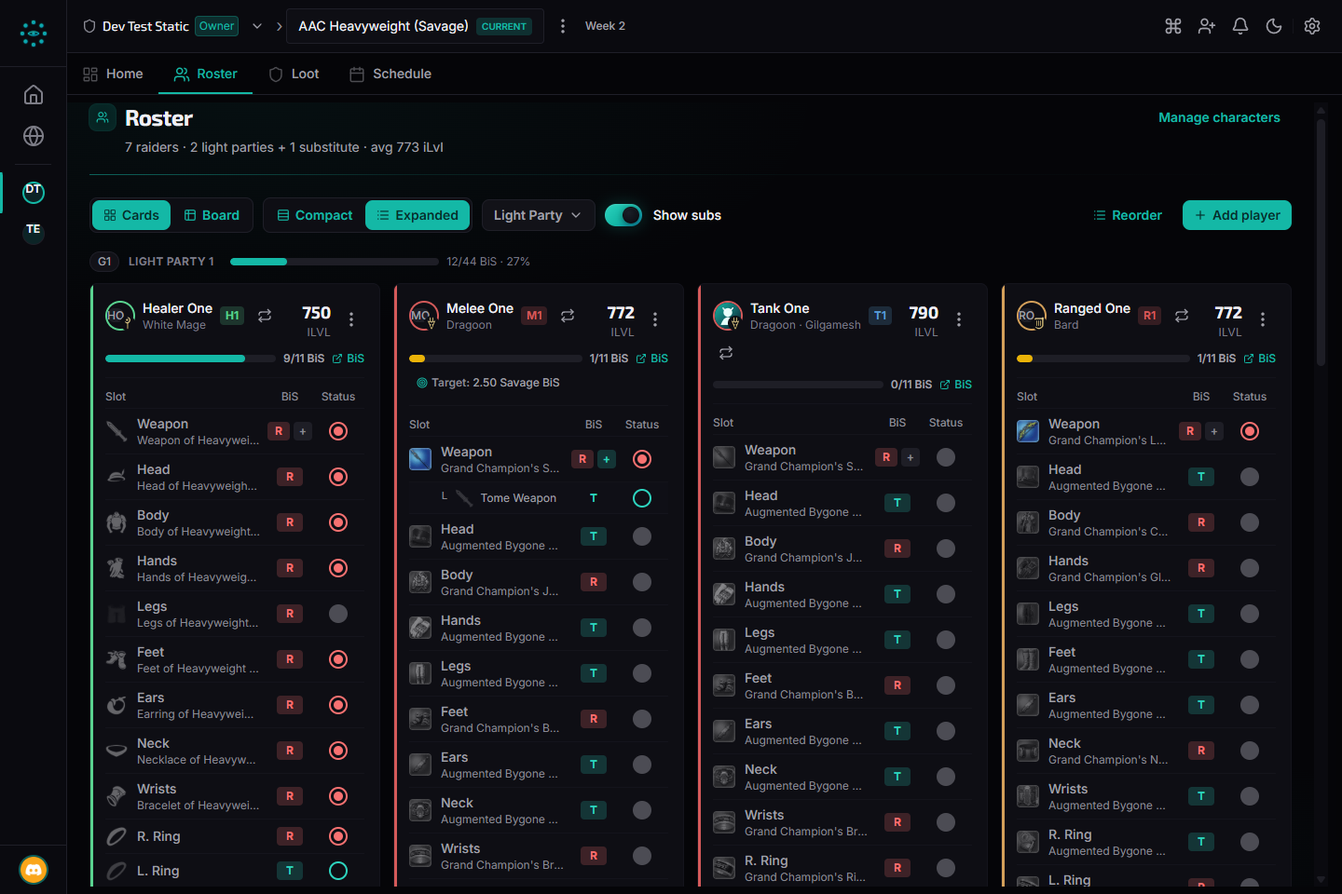
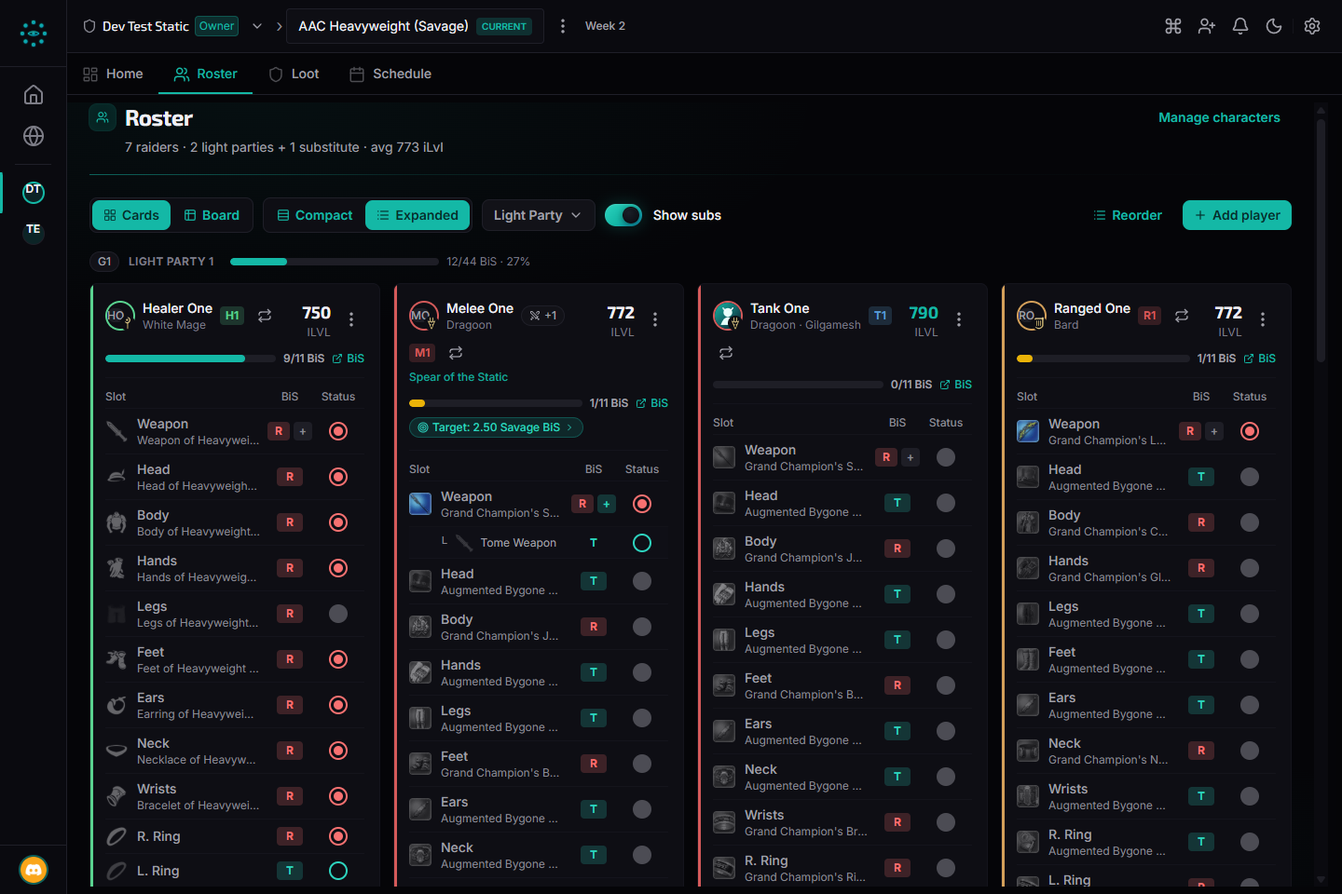
fix(redesign): C5 director fold — all 10 findings (F1-F10) addressed
RECORD CORRECTION (F1): the matrix's 'evidenced by the C5 PR screenshots'
claim for D-11's roster title, D-09's '+N' tag and the D-12 mismatch glyph
was written BEFORE that evidence existed — no dev player exercised those
paths. Now demoed live and captured (title + '+N' + chip in
c5-bis-target-chip-dark.png and c5-expanded-owner-light.png; mismatch glyph
+ warning dot in the new c5-sync-mismatch-dark.png via a temporary
WAR-job change), all demo data reverted after the shots.

F2: the 'You' tooltip now names the viewer's membership role — the D-09
delta ('role named in the tooltip') is true for both claim badges.
F3: the equipped-first readout regains legacy's color discriminator
(accent = equipped average) and the GearBoard subtitle goes equipped-first
through the new shared rosterIlv helper — the two v2 roster views can no
longer print different numbers for the same player. Red-first tests pin
both (RosterCard discriminator + GearBoard subtitle).
F4: the redundant native title on the readout dropped.
F5: the sync line renders as two segments — the name truncates, the age
never does (tests updated to the two-segment contract).
F6: the sync detail hover is a LongPressTooltip (touch path, symmetric
with the iLvl panel); keyboard/AT reachability recorded for the end-phase
mobile/a11y pass.
F7: the active-BiS chip is a Tag variant=nav with the chevron — a pill
that navigates must look like it (delta recorded on D-01).
[…]

diff --git a/frontend/src/components/roster/RosterCard.tsx b/frontend/src/components/roster/RosterCard.tsx
@@ -44,6 +44,7 @@ import { RosterGearTable } from './RosterGearTable';
 import { hasHoverData } from './gearHoverData';
 import { NowVsBisPanel } from './NowVsBisPanel';
 import { bisLinkTooltip, buildBisUrl } from './bisLinkMeta';
+import { equippedAverageIlv } from './rosterIlv';
 import { Button, IconButton, LongPressTooltip, Tooltip } from '../primitives';
 import { JobPicker } from '../player/JobPicker';
 import { PositionSelector } from '../player/PositionSelector';
@@ -402,16 +403,10 @@ export function RosterCard({
 
   // C5 (D-10): the readout prefers the equipped average from sync data when it
   // covers at least half the slots (legacy PlayerCardHeader parity); the
-  // NowVsBisPanel hover explains the number either way.
+  // NowVsBisPanel hover explains the number either way. The shared helper
+  // keeps this expression identical to the GearBoard subtitle (director F3).
   const bisAvgIlv = calculateAverageItemLevel(player.gear, tierId);
-  const equippedSlots = player.gear.filter((g) => (g.equippedItemLevel ?? 0) > 0);
-  const equippedAvgIlv =
-    equippedSlots.length >= Math.ceil(player.gear.length / 2)
-      ? Math.round(
-          equippedSlots.reduce((sum, g) => sum + (g.equippedItemLevel ?? 0), 0) /
-            equippedSlots.length
-        )
-      : 0;
+  const equippedAvgIlv = equippedAverageIlv(player.gear);
   const displayILv = equippedAvgIlv > 0 ? equippedAvgIlv : bisAvgIlv;
 
   // C5 (D-09): badge facts. The "+N" count excludes the main job (legacy
@@ -425,9 +420,9 @@ export function RosterCard({
   const syncAge = formatSyncAge(player.lastSync);
   // C5 (D-12 rider): the sync line carries the character's name; server and
   // sync provenance live in the hover detail (leaner than v1's sync block).
-  const syncLabel = hasLodestoneIdentity
-    ? `${player.lodestoneName ?? 'Linked'}${syncAge ? ` · synced ${syncAge}` : ''}`
-    : 'Not synced';
+  // Rendered as two segments so the NAME truncates and the age never does
+  // (director F5).
+  const syncName = player.lodestoneName ?? 'Linked';
   const syncJobMismatch = Boolean(
     hasLodestoneIdentity &&
       player.lastSyncedJob &&
@@ -493,8 +488,10 @@ export function RosterCard({
       );
     }
     if (player.userId === currentUserId) {
+      // The membership role rides the tooltip (director F2) — legacy conveyed
+      // it by badge color; the D-09 delta names the tooltip as its new home.
       return (
-        <Tooltip content="This card is claimed by you">
+        <Tooltip content={`This card is claimed by you${userRole ? ` (${userRole})` : ''}`}>
           <span className="inline-flex">
             <Tag variant="label" tone="accent">
               You
@@ -657,7 +654,10 @@ export function RosterCard({
 
           <div className="flex shrink-0 items-center gap-2">
             {/* C5 (D-10): the Now-vs-BiS breakdown panel explains the readout;
-                the placeholder "—" has nothing to explain and stays un-wired. */}
+                the placeholder "—" has nothing to explain and stays un-wired.
+                The accent color IS the discriminator (legacy parity, director
+                F3): accent = equipped average, default = BiS-target average.
+                No native title — the panel already says both (director F4). */}
             {displayILv > 0 ? (
               <LongPressTooltip
                 delayDuration={200}
@@ -670,15 +670,12 @@ export function RosterCard({
                   />
                 }
               >
-                <div
-                  className="cursor-help text-right leading-none"
-                  title={
-                    equippedAvgIlv > 0
-                      ? 'Current equipped avg iLv (hover for the BiS target)'
-                      : undefined
-                  }
-                >
-                  <div className="font-display text-lg font-bold text-text-primary">
+                <div className="cursor-help text-right leading-none">
+                  <div
+                    className={`font-display text-lg font-bold ${
+                      equippedAvgIlv > 0 ? 'text-accent' : 'text-text-primary'
+                    }`}
+                  >
                     {displayILv}
                   </div>
                   <div className="text-xs uppercase tracking-wide text-text-tertiary">iLvl</div>
@@ -751,24 +748,25 @@ export function RosterCard({
         </div>
 
         {/* C5 (D-01 remainder): expanded-only active BiS target, riding the
-            BiS block. Opens the same manager as the kebab's "BiS Targets". */}
+            BiS block. Opens the same manager as the kebab's "BiS Targets".
+            A nav Tag, not legacy's ghost button — the pill goes somewhere, so
+            it carries the chevron (director F7: a clickable thing must LOOK
+            clickable). */}
         {isExpanded && activeBisTarget && bisTargetsAction && (
           <div className="mt-1.5">
-            <Button
-              variant="ghost"
-              size="xs"
-              onClick={bisTargetsAction}
-              title="Open BiS Targets"
-              leftIcon={<Target className="h-3 w-3 text-accent" aria-hidden="true" />}
-              className="h-auto max-w-full justify-start py-0.5 text-left"
+            <Tag
+              variant="nav"
+              tone="accent"
+              onNavigate={bisTargetsAction}
+              icon={<Target className="h-3 w-3" aria-hidden="true" />}
+              className="max-w-full"
             >
-              <span className="truncate text-xs text-text-muted">
-                Target:{' '}
-                <span className="font-medium text-text-secondary">{activeBisTarget.name}</span>
+              <span className="truncate">
+                Target: <span className="font-medium">{activeBisTarget.name}</span>
                 {activeBisTarget.itemLevel ? ` · iLv ${activeBisTarget.itemLevel}` : ''}
                 {bisTargetCount > 1 ? ` (+${bisTargetCount - 1})` : ''}
               </span>
-            </Button>
+            </Tag>
           </div>
         )}
 
@@ -878,7 +876,11 @@ export function RosterCard({
               }`}
             />
             {hasLodestoneIdentity ? (
-              <Tooltip
+              /* LongPressTooltip, matching the iLvl panel twelve lines up —
+                 same slice, same detail-hover pattern, and it keeps a touch
+                 path (director F6). */
+              <LongPressTooltip
+                delayDuration={200}
                 content={
                   <div className="max-w-60 space-y-1">
                     <div className="font-medium">
@@ -895,7 +897,8 @@ export function RosterCard({
                 }
               >
                 <span className="flex min-w-0 cursor-help items-center gap-1">
-                  <span className="truncate">{syncLabel}</span>
+                  <span className="truncate">{syncName}</span>
+                  {syncAge && <span className="shrink-0">· synced {syncAge}</span>}
                   {syncJobMismatch && (
                     <AlertTriangle
                       data-testid="roster-sync-mismatch"
@@ -904,9 +907,9 @@ export function RosterCard({
                     />
                   )}
                 </span>
-              </Tooltip>
+              </LongPressTooltip>
             ) : (
-              <span className="truncate">{syncLabel}</span>
+              <span className="truncate">Not synced</span>
             )}
           </span>
           <span className="flex-1" />

diff --git a/frontend/src/components/roster/RosterCard.test.tsx b/frontend/src/components/roster/RosterCard.test.tsx
@@ -820,6 +820,44 @@ describe('RosterCard — C5 metrics · badges · identity', () => {
       expect(screen.getByText('730').closest('[data-state]')).not.toBeNull();
     });
 
+    it('marks an equipped-derived readout with the accent discriminator (director F3)', () => {
+      // Legacy PlayerCardHeader colored the number to say WHICH metric it is
+      // (accent = what the player has equipped). The hover alone is not a
+      // visible discriminator.
+      renderCard(
+        makePlayer({
+          gear: Array.from({ length: 11 }, (_, i) => ({
+            slot: `s${i}`,
+            bisSource: 'raid',
+            hasItem: i < 6,
+            isAugmented: false,
+            equippedItemLevel: i < 6 ? 730 : undefined,
+          })) as unknown as SnapshotPlayer['gear'],
+        })
+      );
+      expect(screen.getByText('730')).toHaveClass('text-accent');
+    });
+
+    it('falls back to the BiS-target metric below the sync-coverage threshold (director F10)', () => {
+      // 5 of 11 synced slots is under ceil(11/2): the equipped average must
+      // NOT win. (With the test tier the BiS-target average is 0 -> "—",
+      // styled as the non-equipped readout.)
+      renderCard(
+        makePlayer({
+          gear: Array.from({ length: 11 }, (_, i) => ({
+            slot: `s${i}`,
+            bisSource: 'raid',
+            hasItem: i < 6,
+            isAugmented: false,
+            equippedItemLevel: i < 5 ? 730 : undefined,
+          })) as unknown as SnapshotPlayer['gear'],
+        })
+      );
+      expect(screen.queryByText('730')).not.toBeInTheDocument();
+      const placeholder = screen.getByText('—');
+      expect(placeholder).not.toHaveClass('text-accent');
+    });
+
     it('leaves the placeholder readout un-wired when there is no iLv to explain', () => {
       renderCard(makePlayer());
       expect(screen.getByText('—').closest('[data-state]')).toBeNull();
@@ -861,7 +899,9 @@ describe('RosterCard — C5 metrics · badges · identity', () => {
   describe('sync line (D-12 rider, leaner R-072)', () => {
     const twoHoursAgo = () => new Date(Date.now() - 2 * 3600_000).toISOString();
 
-    it('names the character on the footer sync line', () => {
+    it('names the character on the footer sync line, with the age as its own segment', () => {
+      // Two segments (director F5): the NAME truncates at narrow widths, the
+      // age never does — both facts survive a crowded footer.
       renderCard(
         makePlayer({
           lodestoneId: '123',
@@ -870,7 +910,8 @@ describe('RosterCard — C5 metrics · badges · identity', () => {
           lastSync: twoHoursAgo(),
         })
       );
-      expect(screen.getByText('Krile Baldesion · synced 2h ago')).toBeInTheDocument();
+      expect(screen.getByText('Krile Baldesion')).toBeInTheDocument();
+      expect(screen.getByText(/synced 2h ago/)).toBeInTheDocument();
     });
 
     it('wires the sync detail tooltip behind the linked line, not the unlinked one', () => {
@@ -883,7 +924,7 @@ describe('RosterCard — C5 metrics · badges · identity', () => {
         })
       );
       expect(
-        screen.getByText('Krile Baldesion · synced 2h ago').closest('[data-state]')
+        screen.getByText('Krile Baldesion').closest('[data-state]')
       ).not.toBeNull();
       unmount();
 

diff --git a/frontend/src/components/roster/GearBoard.tsx b/frontend/src/components/roster/GearBoard.tsx
@@ -23,6 +23,7 @@
 import { Fragment } from 'react';
 import { PlayerIdentity } from '../ui/PlayerIdentity';
 import { GearBoardCell } from './GearBoardCell';
+import { equippedAverageIlv } from './rosterIlv';
 import {
   groupPlayersByLightParty,
   calculateAverageItemLevel,
@@ -148,7 +149,11 @@ export function GearBoard({ players, tierId, userRole, currentUserId, isAdminAcc
                 // canEditGear pattern, adapted to one-row-per-player).
                 const editable = canEditGear(userRole, player, currentUserId ?? undefined, isAdminAccess).allowed;
                 const { obtained, total } = playerBis(player);
-                const iLvl = calculateAverageItemLevel(player.gear, tierId ?? '');
+                // Equipped-first, same expression as the RosterCard headline
+                // (C5, director F3) — the two v2 roster views must print the
+                // same number for the same player.
+                const equippedIlv = equippedAverageIlv(player.gear);
+                const iLvl = equippedIlv > 0 ? equippedIlv : calculateAverageItemLevel(player.gear, tierId ?? '');
                 const subtitle = `${player.position ?? player.tankRole ?? role} · ${iLvl > 0 ? iLvl : '—'}`;
                 return (
                   <tr key={player.id} className="hover:bg-accent/5">

diff --git a/frontend/src/components/roster/GearBoard.test.tsx b/frontend/src/components/roster/GearBoard.test.tsx
@@ -36,6 +36,24 @@ describe('GearBoard', () => {
     expect(screen.getByText('7')).toBeInTheDocument();
   });
 
+  it('row subtitle iLvl goes equipped-first when sync data covers half the slots (C5)', () => {
+    // The Board must agree with the card headline: equipped average when
+    // Lodestone/Tomestone data covers >= ceil(11/2) slots, BiS-target avg
+    // otherwise. 6 slots at 730 -> "· 730" in the identity subtitle.
+    const synced = player({
+      id: 'a',
+      gear: SLOTS.map((slot, i) => ({
+        slot,
+        bisSource: 'raid',
+        hasItem: false,
+        isAugmented: false,
+        equippedItemLevel: i < 6 ? 730 : undefined,
+      })) as GearSlotStatus[],
+    });
+    render(<GearBoard players={[synced]} {...OWNER_GATE} actionsForPlayer={noop} />);
+    expect(screen.getByText(/730/)).toBeInTheDocument();
+  });
+
   it('renders the "No BiS imported" row when a player has no BiS-target slots', () => {
     const noBis = player({ id: 'z', name: 'Caster One', gear: SLOTS.map((slot) => ({ slot, bisSource: null, hasItem: false, isAugmented: false })) as GearSlotStatus[] });
     render(<GearBoard players={[noBis]} {...OWNER_GATE} actionsForPlayer={noop} />);

diff --git a/frontend/src/components/roster/rosterIlv.ts b/frontend/src/components/roster/rosterIlv.ts
@@ -1,0 +1,19 @@
+/**
+ * Equipped-average item level for the v2 roster surfaces (C5, D-10).
+ *
+ * One expression, two consumers — the RosterCard headline and the GearBoard
+ * row subtitle — so the two v2 roster views always print the same number
+ * (director F3: they briefly disagreed when only the card went
+ * equipped-first). Mirrors legacy PlayerCardHeader: the equipped average
+ * counts only when Lodestone/Tomestone sync data covers at least half the
+ * player's slots; otherwise callers fall back to the BiS-target average.
+ */
+import type { GearSlotStatus } from '../../types';
+
+export function equippedAverageIlv(gear: GearSlotStatus[]): number {
+  const synced = gear.filter((g) => (g.equippedItemLevel ?? 0) > 0);
+  if (synced.length < Math.ceil(gear.length / 2)) return 0;
+  return Math.round(
+    synced.reduce((sum, g) => sum + (g.equippedItemLevel ?? 0), 0) / synced.length
+  );
+}

diff --git a/design/redesign/specs/v1-v2-parity-matrix.md b/design/redesign/specs/v1-v2-parity-matrix.md
@@ -141,7 +141,7 @@ D-72 · D-66 → D-66 + D-70 · D-67 → D-67 + D-71. IDs are never re-used or r
 
 | D-ID | What | Class | Legacy rows | V2 today | Usage signal | Ruling |
 |---|---|---|---|---|---|---|
-| **D-01** | The **expanded ⇄ compact card axis** itself: two card densities, a mobile floating density FAB, re-click-to-expand-all, the `V` shortcut, and the expanded-only "active BiS target" chip. | LOST | R-014, R-015, R-023, R-065, R-066, R-087, R-165 | absent — v2 has one card density (V2R-10…V2R-17) | **expanded 203/71 vs compact 126/51** — strongest single datapoint in the matrix ⚠ *Counting note (C1, 2026-07-26): the v2 restore emits `view_mode_change` with a `shell:'v2'` field and does NOT re-emit on a re-click of the active Expanded control (legacy re-emitted on every click; v2 routes re-clicks to expand/collapse-all). v2 series will run strictly lower for identical behavior — never compare raw counts across shells.* | **RESTORE** *(restyled — Phase C centerpiece; ruled 2026-07-26)* ⚠ *C1-checkpoint amendments (2026-07-26): per-card collapse REJECTED (density = global view toggle); re-click-to-expand-all clarified as SECTION-level (expands/folds the light-party groups, cards keep their density) → ships in C6 with D-08's chevrons; the mobile FAB deferred to the consolidated end-phase mobile pass.* ⚠ *C5 (2026-07-26): the expanded-only active-BiS-target chip SHIPPED — it extends the progress line's BiS block (one axis: every BiS concern on that axis) and opens the same manager as the kebab's "BiS Targets"; chip data INHERITS the modal-populated `useSharedBisStore` (no roster prefetch, no backend work — plan vet finding 7).* |
+| **D-01** | The **expanded ⇄ compact card axis** itself: two card densities, a mobile floating density FAB, re-click-to-expand-all, the `V` shortcut, and the expanded-only "active BiS target" chip. | LOST | R-014, R-015, R-023, R-065, R-066, R-087, R-165 | absent — v2 has one card density (V2R-10…V2R-17) | **expanded 203/71 vs compact 126/51** — strongest single datapoint in the matrix ⚠ *Counting note (C1, 2026-07-26): the v2 restore emits `view_mode_change` with a `shell:'v2'` field and does NOT re-emit on a re-click of the active Expanded control (legacy re-emitted on every click; v2 routes re-clicks to expand/collapse-all). v2 series will run strictly lower for identical behavior — never compare raw counts across shells.* | **RESTORE** *(restyled — Phase C centerpiece; ruled 2026-07-26)* ⚠ *C1-checkpoint amendments (2026-07-26): per-card collapse REJECTED (density = global view toggle); re-click-to-expand-all clarified as SECTION-level (expands/folds the light-party groups, cards keep their density) → ships in C6 with D-08's chevrons; the mobile FAB deferred to the consolidated end-phase mobile pass.* ⚠ *C5 (2026-07-26): the expanded-only active-BiS-target chip SHIPPED — it extends the progress line's BiS block (one axis: every BiS concern on that axis) and opens the same manager as the kebab's "BiS Targets"; chip data INHERITS the modal-populated `useSharedBisStore` (no roster prefetch, no backend work — plan vet finding 7). Director-fold delta (2026-07-26): the chip is a `Tag variant="nav"` with the chevron, not legacy's ghost button — a pill that goes somewhere must look like it goes somewhere.* |
 | **D-02** | **Editing and inspecting gear on the card**: click-to-cycle each slot (2-state raid/crafted/base-tome, 3-state augmented-tome), hover item card with stats/materia/equipped-vs-BiS, the Status-column tooltip that teaches the cycle. | LOST | R-088, R-093, R-096, R-097 | **RESTORED (C2, 2026-07-26)** — the expanded card's gear table click-to-cycles through the shared state machine with `canEditGear` gating, hover item card, and header + per-circle cycle hints; compact pips carry the hover item card (inspection) but stay non-editing; Board editing (V2R-21/22) unchanged | ⚠ *Counting note (C2, 2026-07-26): `player_gear_changed` fires for the FIRST time ever as of C2 — emitted from the v2 Cards surface ONLY, payload `{slot, state, shell:'v2'}`. The Board mutates through the same shared path and deliberately does NOT emit; legacy never will. The series is v2-Cards-only with a zero pre-C2 baseline — never read it as app-wide gear-edit volume and never compare it against legacy-era series (same era-misattribution hazard as the D-01/C1 note).* | **RESTORE** *(click-to-cycle + hover inspect on the restored D-01 card; ruled 2026-07-26)* ⚠ *C2 recorded delta: the Status-column HEADER hint renders only when the circles actually cycle (legacy showed it to all roles, R-097) — deliberate appearance-matches-behavior choice.* |
 | **D-03** | **Per-slot BiS-source assignment**: the R/T/C/BT selector popover (with the reset-warning confirm), the per-slot "Fix" button, and the "N slots need BiS source updates" banner that bulk-corrects them. | LOST | R-086, R-091, R-092 | **RESTORED (C3, 2026-07-26)** — the shared `BiSSourceSelector` + `BiSSourceFixBanner` leaves remount on the expanded card's gear table with legacy mutation shapes through `computeGearSlotUpdate`; read-only viewers get the disabled selector trigger (legacy parity) | no data (correctly none — source changes never emitted in either shell) | **RESTORE** *(selector + Fix + bulk banner return with the restored gear table; ruled 2026-07-26)* ⚠ *C3 recorded deltas: (1) weapon-row selector + "+" toggle deferred to C4 (static R/+T glyph until then — delivered in C4); (2) the Fix button is `Button variant="warning" size="xs"` — same warning tokens as legacy's raw button but pill geometry (~30×22, rounded-lg) vs legacy's 24px square (`IconButton` has no warning variant and forces a 44px mobile min); (3) the bulk-fix handler does NOT swallow rejections (legacy PlayerCard does, making the shared banner toast success on failure) — v2-only, banner's own failure toast now fires; (4) legacy-faithful a11y quirk carried over: a DISABLED trigger's aria-label is the permission reason, shadowing the R/T/BT/C value for viewers; (5) the trigger badge's `text-gear-X` on `bg-gear-X/20` measures ~3.0–3.5:1 in light theme and is INVISIBLE to the contrast e2e pin (axe can't parse oklab alpha tints → "incomplete") — frozen shared-leaf debt queued for a shared-leaf contrast slice (plan §2.1 C3 addendum).* |
 | **D-04** | **Tome-weapon tracking**: the weapon row's "+" toggle and the tome-weapon sub-row with its own 3-state circle and material-entry jump. | CHANGED | R-094, R-095 | **RESTORED (C4, 2026-07-26)** — the shared `WeaponBiSSelector` remounts in the weapon row's BiS cell (replacing C1's static R/+T placeholder glyph) and, while pursuing, the sub-row renders with its own 3-state circle mutating `tomeWeapon.hasItem/isAugmented` through the legacy `tomeWeapon` spread (its own player field — never `computeGearSlotUpdate`); the kebab Track/Stop item (V2R-14) reads the same store field so both affordances stay in sync; the material jump rides same-route URL params (`tab=gear&lview=history&entry&entryType=material`) into `LootHistoryTable`'s self-clearing highlight | no data (correctly none — tome-weapon changes never emitted in either shell; the C2 `player_gear_changed` series covers the 11 gear-slot cycles only) | **RESTORE** *(sub-row + own progress circle + material jump; ruled 2026-07-26)* ⚠ *C4 recorded deltas: (1) **RULED on PR #191 (2026-07-26, supersedes the interim plain-activation build):** the sub-row gains the indented weapon slot icon and the material jump lives ON the icon as the C7/D-55 jump family's reference implementation — Alt+Click for mouse (a plain mouse click NEVER navigates), Enter for keyboard, AT browse-mode activation accepted via the click `detail === 0` discriminator (director F3 reconciled with the Alt-only ruling; Safari/VO is inconsistent on that signal — the durable AT route is C7's context-menu jump), and the hover cursor REFLECTS the modifier — default arrow normally, pointer only while Alt is held (a persistent hand would advertise a plain click the gate won't honor). Hand-rolled `role="link"` remains a recorded primitive deviation (`design-system-ignore` in-code: no primitive carries an Alt-gated event); (2) the jump is NOT edit-gated — navigation, not mutation, so viewers can follow the record (verified legacy parity: legacy passes `onNavigateToMaterialEntry` down with no permission branch); (3) `Roster.tsx` fetches the material log in its own mount batch — **NOT because the data was unreachable** (correction, third revision of this delta: the legacy-chrome host `GroupViewContent.tsx:321-327` fetches loot + material logs for roster/gear pageModes in BOTH shells, un-gated on slots — the "could never light" claims in the first two revisions were wrong) but as the established v2 self-sufficiency pattern: v2 surfaces own their data (Loot.tsx mount batch; Roster's pre-C4 lootLog/currentWeek batch duplicate the same host effect) so nothing breaks when the legacy chrome and its effects dissolve; the idempotent duplicate GET is accepted and pre-dates C4; (4) the sub-row's `text-gear-tome` "T" badge and the shared selector's tinted R/+ sit on alpha-tinted backgrounds → invisible to the contrast e2e pin (the C3 oklab blindspot) — same frozen shared-leaf debt, queued for the shared-leaf contrast slice; (5) the shared `WeaponBiSSelector` "+" toggle exposes neither its purpose nor its on/off state to AT (accessible name is literally "+", no `aria-pressed`; tooltip-only purpose is also touch-invisible) — legacy-identical quirk inherited by remounting the FROZEN leaf (C3's carried-over-quirk precedent), recorded as shared-leaf a11y debt riding the queued shared-leaf slice.* |
@@ -149,10 +149,10 @@ D-72 · D-66 → D-66 + D-70 · D-67 → D-67 + D-71. IDs are never re-used or r
 | **D-06** | **The sort-preset *control*** — the selector offering Standard / DPS First / Healer First / Custom. | LOST *(control only)* | R-009, R-035, R-160, R-161, R-162, R-163 | **⚠ CORRECTED twice — the *apply* machinery is intact; the UI *and the hydration* are gone.** v2 still runs `SORT_PRESETS` via `sortPlayersByRole` over whatever its own hook instance holds (`Roster.tsx:175-178`), and drag still writes `'custom'` (`usePlayerActions.ts:178-182`) — but the **Phase-C vet (2026-07-26) found the per-tier `sort-preset-{tierId}` hydration exists only in the legacy hosts**, so v2's own instance defaults to Standard and never receives the stored value. What v2 lacks is `SortModeSelector` (R-009) **and** the hydration. **The actual defect:** v2 silently *ignores* a stored "Healer First" preset (this row's earlier "gets that order with no way to change it" description had it inverted) | no data | **RESTORE** *(selector **+ v2-side per-tier hydration** return in the v2 roster toolbar — slice C6; ruled 2026-07-26, mechanism corrected same day by the Phase-C vet)* |
 | **D-07** | **The "Separate Subs" *toggle*** — subs in their own section vs merged into the main grid (distinct from show/hide). | **CHANGED** *(was LOST — corrected)* | R-012, R-157 | **⚠ CORRECTED twice.** `RosterCards.tsx:362-364,400-403` does read `subsView` and sections/merges accordingly — but the **Phase-C vet (2026-07-26) found the `S` shortcut does NOT reach it live**: `S` mutates the GroupViewContent instance of the per-instance `useGroupViewState`, while v2's Roster reads its own instance and observes only URL changes on remount. The earlier "reachable via `S` / discoverability loss" reading (fact-check Q5) was wrong — with no live route to the state, this is a **capability loss** in v2 today | no data | **RESTORE** *(visible toolbar toggle **+ v2-side `S` binding** — slice C6; ruled 2026-07-26, liveness corrected same day by the Phase-C vet)* |
 | **D-08** | **Section collapse** — per-section chevrons for G1/G2/Unassigned/Substitutes, persisted per static+tier. | LOST | R-022, R-159 | V2R-07 sections are always expanded | no data | **RESTORE** *(per-section chevrons + persistence; ruled 2026-07-26)* |
-| **D-09** | **Player-card status badges** — SUB, BiS-link badge (opens xivgear/etro in a new tab, source-aware tooltip), "You", linked-user avatar+name badge, weapon-priority "+N" badge. | LOST | R-077, R-078, R-079, R-080, R-081, R-155 | **RESTORED (C5, 2026-07-26) — dissolved into the C1 one-axis homes**, not re-assembled as legacy's single strip: SUB + the "+N" weapon-priority tag join the header identity cluster; the BiS-link affordance rides the progress line (the BiS story's axis) as a real external anchor (new tab, `noopener`, source-aware tooltip + aria-label); "You"/linked-user complete the footer's claim story | no data | **RESTORE** *(full badge row on the v2 card; ruled 2026-07-26)* ⚠ *C5 recorded deltas (2026-07-26): (1) placement — one badge row → three one-axis homes (header identity cluster / progress line / footer claim story), per the C1 ruling; (2) membership-role color coding on the "You"/linked-user badges dropped — the role is named in the tooltip instead (v2 `Tag` tones); (3) the SUB tooltip copy says "static", not legacy's "raid group"; (4) badges render as constrained primitives (`Tag`/`LinkText`), never bare accent text.* |
-| **D-10** | **Card metrics beyond the number** — the completed/total **progress ring**, and the **per-slot "Now vs BiS" hover breakdown** behind the average-iLv readout. | LOST | R-074, R-075 | **⚠ CORRECTED — v2 *does* show average iLvl** on the card, under an "iLvl" label (`RosterCard.tsx:250,389-391`; a row the v2 inventory missed — see §11 note). Genuinely lost: R-074's `ProgressRing` and R-075's long-press/hover comparison panel (per-slot BiS iLv, equipped-vs-target two-column view). The bare number survives; the *explanation* behind it does not. **→ RESTORED (C5, 2026-07-26):** the Now-vs-BiS hover panel returns behind the iLvl readout (`NowVsBisPanel` — per-slot BiS iLv, with the equipped "Now" column when sync data covers ≥ half the slots), and the readout itself goes **equipped-first** with BiS-target fallback (legacy `PlayerCardHeader` parity — v2 previously always showed the BiS-target average) | no data | **RESTORE** *(progress ring + Now-vs-BiS hover panel; ruled 2026-07-26)* ⚠ *AMENDED at the C1 checkpoint (2026-07-26): the progress ring is DROPPED — the restored card's BiS progress bar serves in its place. The Now-vs-BiS hover breakdown still restores (C5).* ⚠ *C5 recorded deltas (2026-07-26): the panel is restyled to the v2 12px floor (legacy ran its column header at 10px), and the headline number switches from always-BiS-average to legacy's equipped-first semantics — the placeholder "—" carries no hover (nothing to explain).* |
-| **D-11** | **Card identity & personalization display** — roster title, roster note, flex-role chips, and the Lodestone character portrait with role-ring + job badge. | LOST | R-068, R-073 | **⚠ CORRECTED — R-064 (the 3px role-colour accent edge) IS present** in v2 (`RosterCard.tsx:313-318`, another inventory miss) and has been moved to §1.K. Genuinely lost: the Lodestone portrait frame (R-068) and the whole personalization display (R-073). The *editor* survives (V2R-14 "Flex Roles") — only the card-side rendering is gone. **→ REDESIGN SHIPPED (C5, 2026-07-26), LEAN:** the Lodestone portrait rides `PlayerIdentity`'s existing avatar seam on the **expanded** card (role ring + job badge come with it; `SafeAvatar` allowlist + initials fallback), and the roster title renders as a single accent line under the header (expanded only) | no data | **REDESIGN** *(identity returns selectively — e.g. portrait + title on the expanded card; per-element calls made in Phase C design; ruled 2026-07-26)* ⚠ *C5 per-element calls (2026-07-26, evidenced by the C5 PR screenshots): portrait YES (expanded only), roster title YES (expanded only), roster note NO, flex-role chips NO — both stay editor-only; the compact card is untouched.* |
-| **D-12** | **Lodestone character sync** — kebab "Lodestone Sync / Re-sync" and the whole search→preview→sync→compare modal (search, mock mode, URL/ID paste, linked panel, gear preview grid, sync, overwrite warning, identity-only fallback, post-sync compare, mismatch notices). *Rider: the card's sync **status line** (R-072) survives in reduced form as V2R-17 and is accounted in §1.K — restoring the flow should restore its character/server and job-mismatch detail too.* | **LOST** *(was CHANGED — re-classified by the fact-check)* | R-041, R-132, R-133, R-134, R-135, R-136, R-137, R-138, R-139, R-140, R-141 | **✅ VERIFIED (fact-check Q3): `RosterCharacterPanel` has NO Lodestone search** — only "Link Player Hub character" (`RosterCharacterMemberCard.tsx:85-91`), "Add manual character" (`:92-101`) and a passive `CharacterSyncBadge`. The same panel is mounted by **both** shells (legacy `GroupViewContent.tsx:948`, v2 `CharacterManageBridge.tsx:31`), so V2R-06 is not a re-home. With the card kebab gone, **`LodestoneSearchModal` has no entry point anywhere in v2's in-static surfaces** | no data | **REDESIGN** *(re-home the flow into the Characters modal / Player Hub path rather than the card kebab; rider R-072 detail restores with it; ruled 2026-07-26)* ⚠ *Rider amended at the C1 checkpoint (2026-07-26): the R-072 sync-line detail returns as a REDESIGNED, leaner treatment — v1's sync block bloats the card ("too much information… we can do better in v2"); the character/server + job-mismatch information is kept, the form is new (C5).* ✅ *Rider SHIPPED in C5 (2026-07-26): the footer sync line names the character (+ sync age); server, sync provenance and the job-mismatch explanation live in the hover detail; a mismatch also keeps a visible warning glyph + warning-colored dot, so it never hides behind the hover. No sub-12px text (legacy's block ran at 11px). The flow re-home itself remains C8.* |
+| **D-09** | **Player-card status badges** — SUB, BiS-link badge (opens xivgear/etro in a new tab, source-aware tooltip), "You", linked-user avatar+name badge, weapon-priority "+N" badge. | LOST | R-077, R-078, R-079, R-080, R-081, R-155 | **RESTORED (C5, 2026-07-26) — dissolved into the C1 one-axis homes**, not re-assembled as legacy's single strip: SUB + the "+N" weapon-priority tag join the header identity cluster; the BiS-link affordance rides the progress line (the BiS story's axis) as a real external anchor (new tab, `noopener`, source-aware tooltip + aria-label); "You"/linked-user complete the footer's claim story | no data | **RESTORE** *(full badge row on the v2 card; ruled 2026-07-26)* ⚠ *C5 recorded deltas (2026-07-26): (1) placement — one badge row → three one-axis homes (header identity cluster / progress line / footer claim story), per the C1 ruling; (2) membership-role color coding on the "You"/linked-user badges dropped — the role is named in the tooltip instead (v2 `Tag` tones); (3) the SUB tooltip copy says "static", not legacy's "raid group"; (4) badges render as constrained primitives (`Tag`/`LinkText`), never bare accent text; (5, director fold) SUB riding the header identity cluster wraps a substitute card's header to a second line at compact widths — accepted layout cost of the one-axis placement (visible in `c5-compact-owner-dark.png`, Melee Two).* |
+| **D-10** | **Card metrics beyond the number** — the completed/total **progress ring**, and the **per-slot "Now vs BiS" hover breakdown** behind the average-iLv readout. | LOST | R-074, R-075 | **⚠ CORRECTED — v2 *does* show average iLvl** on the card, under an "iLvl" label (`RosterCard.tsx:658-693` post-C5; a row the v2 inventory missed — see §11 note). Genuinely lost: R-074's `ProgressRing` and R-075's long-press/hover comparison panel (per-slot BiS iLv, equipped-vs-target two-column view). The bare number survives; the *explanation* behind it does not. **→ RESTORED (C5, 2026-07-26):** the Now-vs-BiS hover panel returns behind the iLvl readout (`NowVsBisPanel` — per-slot BiS iLv, with the equipped "Now" column when sync data covers ≥ half the slots), and the readout itself goes **equipped-first** with BiS-target fallback (legacy `PlayerCardHeader` parity — v2 previously always showed the BiS-target average) | no data | **RESTORE** *(progress ring + Now-vs-BiS hover panel; ruled 2026-07-26)* ⚠ *AMENDED at the C1 checkpoint (2026-07-26): the progress ring is DROPPED — the restored card's BiS progress bar serves in its place. The Now-vs-BiS hover breakdown still restores (C5).* ⚠ *C5 recorded deltas (2026-07-26): the panel is restyled to the v2 12px floor (legacy ran its column header at 10px), and the headline number switches from always-BiS-average to legacy's equipped-first semantics — the placeholder "—" carries no hover (nothing to explain).* ⚠ *C5 director-fold deltas (2026-07-26): (1) the legacy color discriminator RESTORED — the number renders `text-accent` when equipped-derived, default otherwise (a hover is not a visible discriminator); (2) the GearBoard row subtitle goes equipped-first through the same shared `rosterIlv` helper, so the two v2 roster views always print the same number; (3) legacy's redundant native `title` on the readout dropped — the panel says both averages.* |
+| **D-11** | **Card identity & personalization display** — roster title, roster note, flex-role chips, and the Lodestone character portrait with role-ring + job badge. | LOST | R-068, R-073 | **⚠ CORRECTED — R-064 (the 3px role-colour accent edge) IS present** in v2 (`RosterCard.tsx:542-546` post-C5, another inventory miss) and has been moved to §1.K. Genuinely lost: the Lodestone portrait frame (R-068) and the whole personalization display (R-073). The *editor* survives (V2R-14 "Flex Roles") — only the card-side rendering is gone. **→ REDESIGN SHIPPED (C5, 2026-07-26), LEAN:** the Lodestone portrait rides `PlayerIdentity`'s existing avatar seam on the **expanded** card (role ring + job badge come with it; `SafeAvatar` allowlist + initials fallback), and the roster title renders as a single accent line under the header (expanded only) | no data | **REDESIGN** *(identity returns selectively — e.g. portrait + title on the expanded card; per-element calls made in Phase C design; ruled 2026-07-26)* ⚠ *C5 per-element calls (2026-07-26, evidenced by the C5 PR screenshots — portrait in both `c5-expanded-owner-*.png`, roster title live in `c5-bis-target-chip-dark.png` + `c5-expanded-owner-light.png`): portrait YES (expanded only), roster title YES (expanded only), roster note NO, flex-role chips NO — both stay editor-only; the compact card is untouched.* |
+| **D-12** | **Lodestone character sync** — kebab "Lodestone Sync / Re-sync" and the whole search→preview→sync→compare modal (search, mock mode, URL/ID paste, linked panel, gear preview grid, sync, overwrite warning, identity-only fallback, post-sync compare, mismatch notices). *Rider: the card's sync **status line** (R-072) survives in reduced form as V2R-17 and is accounted in §1.K — restoring the flow should restore its character/server and job-mismatch detail too.* | **LOST** *(was CHANGED — re-classified by the fact-check)* | R-041, R-132, R-133, R-134, R-135, R-136, R-137, R-138, R-139, R-140, R-141 | **✅ VERIFIED (fact-check Q3): `RosterCharacterPanel` has NO Lodestone search** — only "Link Player Hub character" (`RosterCharacterMemberCard.tsx:85-91`), "Add manual character" (`:92-101`) and a passive `CharacterSyncBadge`. The same panel is mounted by **both** shells (legacy `GroupViewContent.tsx:948`, v2 `CharacterManageBridge.tsx:31`), so V2R-06 is not a re-home. With the card kebab gone, **`LodestoneSearchModal` has no entry point anywhere in v2's in-static surfaces** | no data | **REDESIGN** *(re-home the flow into the Characters modal / Player Hub path rather than the card kebab; rider R-072 detail restores with it; ruled 2026-07-26)* ⚠ *Rider amended at the C1 checkpoint (2026-07-26): the R-072 sync-line detail returns as a REDESIGNED, leaner treatment — v1's sync block bloats the card ("too much information… we can do better in v2"); the character/server + job-mismatch information is kept, the form is new (C5).* ✅ *Rider SHIPPED in C5 (2026-07-26): the footer sync line names the character (+ sync age); server, sync provenance and the job-mismatch explanation live in the hover detail; a mismatch also keeps a visible warning glyph + warning-colored dot, so it never hides behind the hover (live in `c5-sync-mismatch-dark.png`). No sub-12px text (legacy's block ran at 11px). Director-fold refinements (2026-07-26): the line renders as TWO segments — the name truncates at crowded widths, the age never does — and the detail hover is a `LongPressTooltip` (same pattern as the iLvl panel, keeps a touch path); keyboard/AT reachability of the hover detail rides the consolidated end-phase mobile/a11y pass. The flow re-home itself remains C8.* |
 | **D-13** | **PlayerSetupBanner** — the contextual banner on the card with role-specific CTA (owner/lead → "Assign Player", member → "Take Ownership", claimed-no-BiS → "Import BiS"), its hidden states, and its admin View-As re-routing. | CHANGED | R-082, R-083, R-084, R-085, R-181, R-182 | V2R-16 inline "Assign"/"Import" button inside the BiS line + V2H-05 "Needs your attention" list on Home (3 rows max per category) | `player_claim` 103 events/94 users; `bis_import` 182/86 | **KEEP V2** *(inline button + Home attention list is the v2 answer; banner not restored; ruled 2026-07-26)* |
 | **D-14** | **Open-seat configure form** — the permission-denied panel, role filter chips, searchable role-grouped job dropdown for non-template slots, template quick-pick, and Escape-closes-picker-then-form semantics. | CHANGED | R-099, R-100, R-101, R-102, R-103, R-104, R-105, R-106, R-184 | V2R-08 inline form = name `Input` + `JobPicker` only; V2R-09 remove (no confirm). No denied-state panel: the card simply isn't interactive | `player_configure` 225 events/32 users | **KEEP V2** *(lean name + JobPicker form stands; legacy machinery stays gone; ruled 2026-07-26)* |
 | **D-15** | **Job-change hand-off to BiS import** — legacy's 3-button confirm offers "Change Job **and Update BiS**" (opens BiSImportModal immediately). | CHANGED | R-059 | V2R-13 is a 2-option radio: keep current BiS / unlink BiS. No import hand-off | `bis_import` 182/86 | **RESTORE** *(third option "Change Job and Update BiS" → straight into import; ruled 2026-07-26)* |
